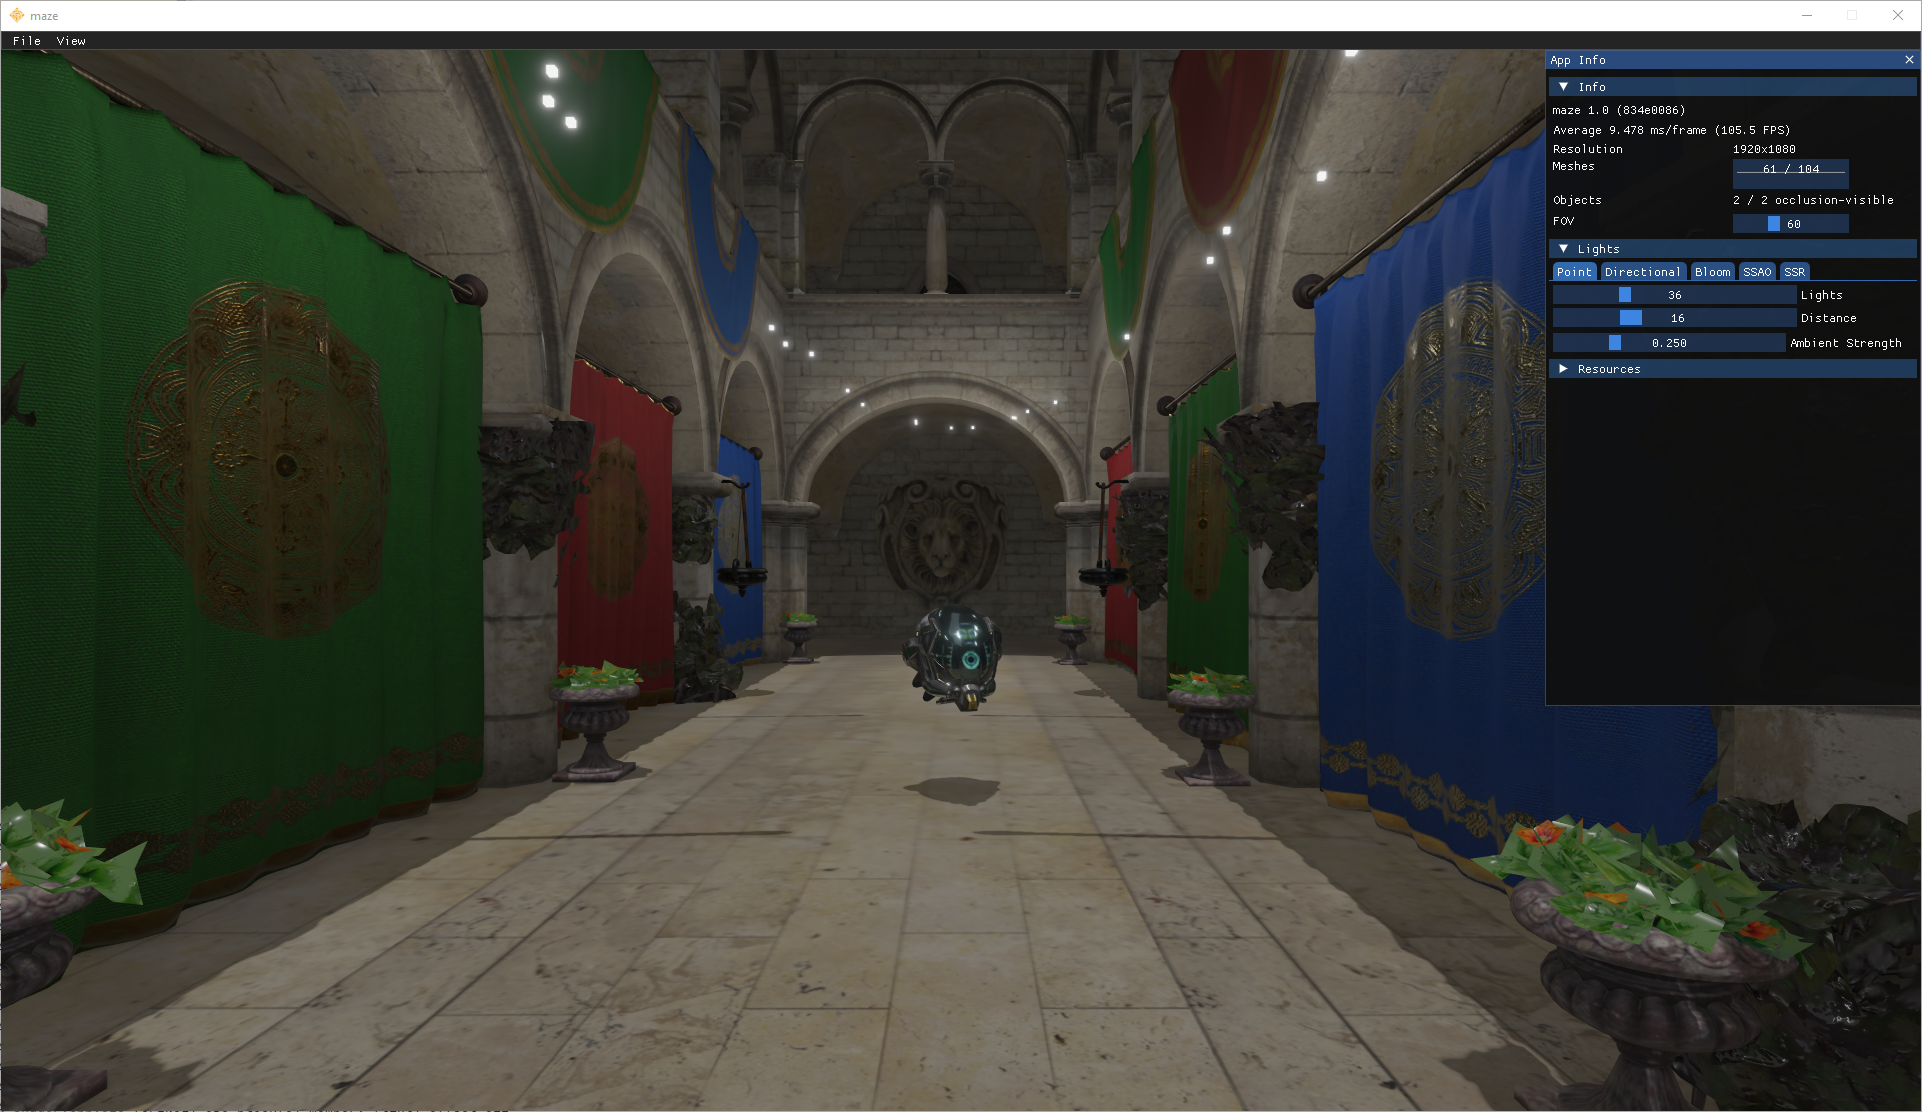
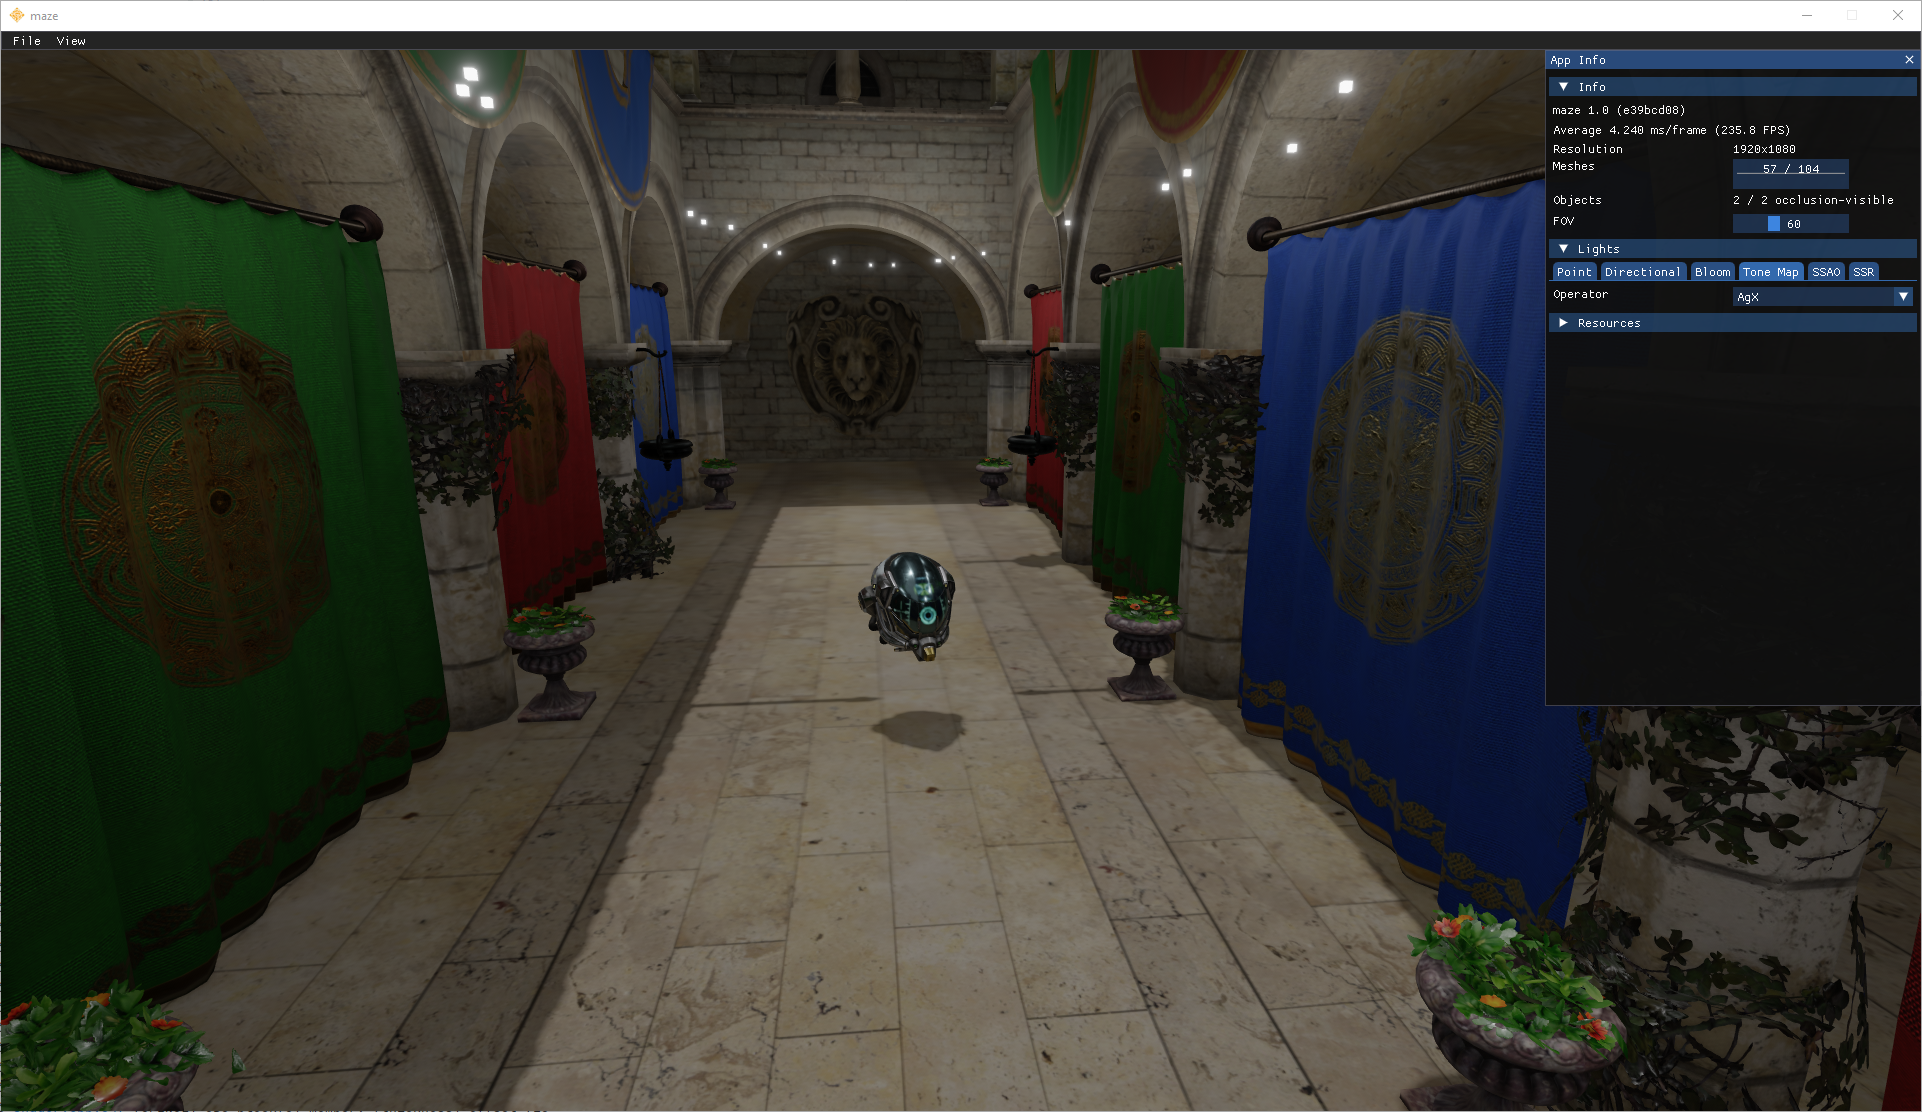
Support glTF doubleSided (#558)
* Support glTF doubleSided

Bake doubleSided per mesh (format version 7). Model turns face culling
off for a double-sided mesh and back on after it. pbr.slang and the
depth prepass flip the normal on back faces.

* docs: update work-in-progress image

diff --git a/sponge/src/platform/opengl/scene/model.cpp b/sponge/src/platform/opengl/scene/model.cpp
@@ -17,6 +17,20 @@
 #include <vector>
 
 namespace {
+// Moves face culling to `wanted` and records it, so a run of meshes that
+// agree makes no GL call.
+void setCulling(bool& current, const bool wanted) {
+    if (current == wanted) {
+        return;
+    }
+    if (wanted) {
+        glEnable(GL_CULL_FACE);
+    } else {
+        glDisable(GL_CULL_FACE);
+    }
+    current = wanted;
+}
+
 // Slang-generated layout locations for pbr.vert.slang
 constexpr uint32_t positionLoc = 0;
 constexpr uint32_t texCoordLoc = 1;
@@ -133,7 +147,8 @@ std::shared_ptr<Mesh> Model::buildMesh(ParsedMesh&&                 parsedMesh,
         parsedMesh.metallicFactor, parsedMesh.roughnessFactor,
         parsedMesh.clearcoatFactor, parsedMesh.clearcoatRoughnessFactor,
         parsedMesh.diffuseTransmission, parsedMesh.baseColorFactor,
-        parsedMesh.alphaMode, parsedMesh.alphaCutoff, parsedMesh.uvTransforms);
+        parsedMesh.alphaMode, parsedMesh.alphaCutoff, parsedMesh.doubleSided,
+        parsedMesh.uvTransforms);
     return mesh;
 }
 
@@ -171,14 +186,19 @@ void Model::render(const std::shared_ptr<renderer::Shader>& shader,
         return;
     }
     vao->bind();
+    // Face culling is on by default (RendererAPI). A double-sided mesh turns it
+    // off for its own draw; the run ends with it back on.
+    bool culling = true;
     for (size_t i = 0; i < meshes.size(); i++) {
         if (!meshes[i]->drawnIn(pass)) {
             continue;
         }
         if (meshVisible.empty() || meshVisible[i] != 0) {
+            setCulling(culling, !meshes[i]->isDoubleSided());
             meshes[i]->draw(shader, pass == AlphaPass::Masked);
         }
     }
+    setCulling(culling, true);
 }
 
 void Model::renderMesh(const std::shared_ptr<renderer::Shader>& shader,
@@ -187,6 +207,9 @@ void Model::renderMesh(const std::shared_ptr<renderer::Shader>& shader,
         return;
     }
     vao->bind();
+    bool culling = true;
+    setCulling(culling, !meshes[index]->isDoubleSided());
     meshes[index]->draw(shader);
+    setCulling(culling, true);
 }
 }  // namespace sponge::platform::opengl::scene

diff --git a/sponge/src/platform/opengl/scene/mesh.hpp b/sponge/src/platform/opengl/scene/mesh.hpp
@@ -43,7 +43,8 @@ public:
         const glm::vec4&         diffuseTransmission = { 1.F, 1.F, 1.F, 0.F },
         const glm::vec4&         baseColorFactor     = glm::vec4(1.F),
         sponge::scene::AlphaMode alphaMode = sponge::scene::AlphaMode::Opaque,
-        float alphaCutoff = 0.F, const MeshUVTransforms& uvTransforms = {});
+        float alphaCutoff = 0.F, bool doubleSided = false,
+        const MeshUVTransforms& uvTransforms = {});
     // Sets the material and draws this mesh's range of the model's shared
     // vertex and index buffers. The caller binds the model's VAO first. The
     // PBR program always gets its full material. Any other program gets only
@@ -52,6 +53,10 @@ public:
     // pass.
     void draw(const std::shared_ptr<renderer::Shader>& shader,
               bool                                     alphaTest = false) const;
+
+    bool isDoubleSided() const {
+        return doubleSided;
+    }
 
     // Opaque, Masked (glTF MASK with a cutoff) or Blended.
     AlphaPass alphaPass() const {
@@ -160,6 +165,7 @@ private:
     glm::vec4                                       baseColorFactor;
     sponge::scene::AlphaMode                        alphaMode;
     float                                           alphaCutoff;
+    bool                                            doubleSided;
     MeshUVTransforms                                uvTransforms;
     sponge::scene::AABB                             bounds;
 };

diff --git a/sponge/format/scene/src/assetformat.cpp b/sponge/format/scene/src/assetformat.cpp
@@ -161,6 +161,7 @@ std::vector<uint8_t> write(const ModelData& data) {
         entry.clearcoatRoughnessFactor = mesh.clearcoatRoughnessFactor;
         entry.alphaMode                = static_cast<uint32_t>(mesh.alphaMode);
         entry.alphaCutoff              = mesh.alphaCutoff;
+        entry.doubleSided              = mesh.doubleSided ? 1 : 0;
         entry.diffuseTransmission      = mesh.diffuseTransmission;
         entry.uvTransforms             = mesh.uvTransforms;
     }
@@ -258,6 +259,8 @@ ModelData read(const std::string& path, std::string& error) {
                 static_cast<AlphaMode>(entry.alphaMode) :
                 AlphaMode::Opaque;
         mesh.alphaCutoff         = entry.alphaCutoff;
+        mesh.doubleSided         = entry.doubleSided != 0;
+        mesh.doubleSided         = entry.doubleSided != 0;
         mesh.diffuseTransmission = entry.diffuseTransmission;
         mesh.uvTransforms        = entry.uvTransforms;
     }

diff --git a/sponge/src/platform/opengl/scene/mesh.cpp b/sponge/src/platform/opengl/scene/mesh.cpp
@@ -46,7 +46,7 @@ Mesh::Mesh(std::vector<Vertex>&& vertices, const std::size_t numVertices,
            const glm::vec4&               diffuseTransmission,
            const glm::vec4&               baseColorFactor,
            const sponge::scene::AlphaMode alphaMode, const float alphaCutoff,
-           const MeshUVTransforms& uvTransforms) :
+           const bool doubleSided, const MeshUVTransforms& uvTransforms) :
     textures(std::move(textures)),
     normalTexture(std::move(normalTexture)),
     occlusionTexture(std::move(occlusionTexture)),
@@ -61,6 +61,7 @@ Mesh::Mesh(std::vector<Vertex>&& vertices, const std::size_t numVertices,
     baseColorFactor(baseColorFactor),
     alphaMode(alphaMode),
     alphaCutoff(alphaCutoff),
+    doubleSided(doubleSided),
     uvTransforms(uvTransforms) {
     this->indices     = std::move(indices);
     this->numIndices  = numIndices;

diff --git a/sponge/format/scene/src/assetformat.hpp b/sponge/format/scene/src/assetformat.hpp
@@ -22,7 +22,7 @@ namespace sponge::scene::asset {
 // Eight bytes rather than a packed integer: the tag is five characters, and
 // it reads as itself in a hex dump.
 constexpr char     magic[8] = { 'S', 'P', 'N', 'G', 'A', 0, 0, 0 };
-constexpr uint32_t version  = 6;
+constexpr uint32_t version  = 7;
 
 // Bumping either of these changes the on-disk vertex layout. The asserts
 // fire on a size change or a field reorder; bump version in the same edit.
@@ -52,6 +52,7 @@ struct MeshEntry {
     float            clearcoatRoughnessFactor;
     uint32_t         alphaMode;    // AlphaMode
     float            alphaCutoff;  // glTF MASK cutoff, else 0
+    uint32_t         doubleSided;  // 0 or 1
     glm::vec4        baseColorFactor;
     glm::vec4        diffuseTransmission;  // rgb = color, w = factor
     MeshUVTransforms uvTransforms;

diff --git a/tools/assetconv/src/gltfimport.cpp b/tools/assetconv/src/gltfimport.cpp
@@ -240,6 +240,8 @@ std::optional<ParsedMesh> parsePrimitive(const cgltf_primitive& primitive,
             parsedMesh.uvTransforms.metallicRoughness =
                 uvTransformOf(pbr.metallic_roughness_texture);
         }
+        parsedMesh.doubleSided = material.double_sided != 0;
+        parsedMesh.doubleSided = material.double_sided != 0;
         if (material.alpha_mode == cgltf_alpha_mode_mask) {
             parsedMesh.alphaMode   = AlphaMode::Mask;
             parsedMesh.alphaCutoff = material.alpha_cutoff;

diff --git a/sponge/format/scene/src/modeldata.hpp b/sponge/format/scene/src/modeldata.hpp
@@ -67,6 +67,9 @@ struct ParsedMesh {
     // modes.
     AlphaMode alphaMode{ AlphaMode::Opaque };
     float     alphaCutoff{ 0.F };
+    // glTF doubleSided: both faces are drawn, and the normal of a back face is
+    // flipped.
+    bool doubleSided{ false };
     // KHR_materials_clearcoat factors; both default to 0 (no coat). The coat
     // textures are not carried.
     float clearcoatFactor{ 0.F };

diff --git a/sponge/src/platform/AGENTS.md b/sponge/src/platform/AGENTS.md
@@ -148,8 +148,14 @@ than calling GLFW/OpenGL/OS APIs directly.
   prepass, shadow pass, mirror or probe capture (`AlphaPass::Solid` leaves it
   out), so it casts no shadow, gets no SSAO and no SSR, and TAA has no
   velocity for it. Glass does not refract it. Triangles inside one mesh are
-  not sorted. Face culling is always on, so a one-sided blended mesh shows
-  only its front.
+  not sorted.
+* glTF `doubleSided` is baked per mesh. Face culling is on by default; `Model`
+  turns it off for a double-sided mesh and back on after, and the PBR and
+  depth prepass fragment programs flip the normal when `SV_IsFrontFace` is
+  false. A double-sided blended mesh is one draw with culling off, so a closed
+  object can layer wrongly. The glass program does not flip normals. The
+  shadow pass also goes through `Model::render`, so a double-sided mesh casts
+  shadow from both faces.
 * Clear coat (`KHR_materials_clearcoat`) carries the two factors only; the
   three coat textures are not read. The coat uses
   the geometric normal, a fixed F0 of 0.04, and takes its Fresnel share off
